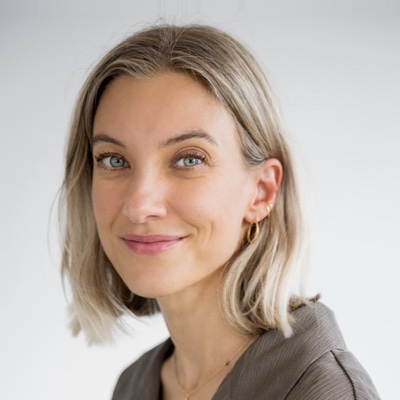
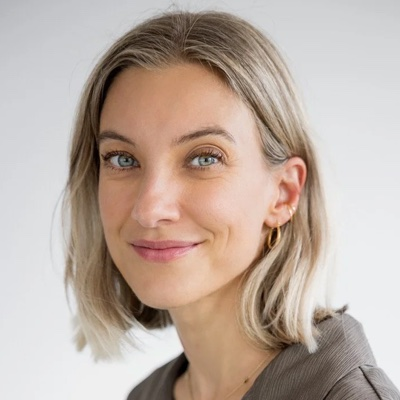
Add a profile page for everyone in the lab
Each person now has a page at /people/<name>/ with their bio on the left and
a 4:5 portrait on the right, with Website and LinkedIn links beneath it.
Bios live in _people/ as Markdown; name, role, photos, and links stay in
_data/people.yml, which gains `portrait` and `linkedin` fields. Homepage
cards open the profile instead of the person's outside page.

Bios are taken from each person's own site or Stanford profile. Kavya's and
Samantha's are left blank until they send current ones. Roberta's homepage
photo is replaced with a new, less tightly cropped one.

diff --git a/_layouts/person.html b/_layouts/person.html
@@ -1,0 +1,59 @@
+---
+layout: default
+---
+{%- comment -%}
+  A profile page, for each file in _people/. The bio is the file's body;
+  everything else comes from the matching entry in _data/people.yml, so a
+  person's name, role, and photo are never written down twice.
+
+  Source order is name, portrait, bio, which is the order a phone stacks them
+  in. On wider screens the grid moves the portrait into a column on the right.
+{%- endcomment -%}
+{%- assign person = site.data.people | where: "name", page.title | first %}
+{%- assign portrait = person.portrait | default: person.photo %}
+<div class="wrap page">
+  <p class="profile-back"><a href="{{ '/#people' | relative_url }}">← All people</a></p>
+
+  <article class="profile">
+    <header class="profile-head">
+      <h1 class="page-title">{{ person.name | default: page.title | escape }}</h1>
+      {%- if person.role %}
+      <p class="profile-role">{{ person.role | escape }}</p>
+      {%- endif %}
+    </header>
+
+    {%- if portrait or person.linkedin or person.url %}
+    <aside class="profile-aside">
+      {%- if portrait %}
+      <img class="profile-portrait" src="{{ '/assets/img/' | append: portrait | relative_url }}" alt="{{ person.name | escape }}" width="640" height="800" />
+      {%- endif %}
+      {%- if person.url or person.linkedin %}
+      <ul class="profile-links">
+        {%- if person.url %}
+        <li>
+          <a href="{{ person.url }}" target="_blank" rel="noopener">
+            <svg class="profile-link-logo" viewBox="0 0 24 24" aria-hidden="true" fill="none" stroke="currentColor" stroke-width="1.75"><circle cx="12" cy="12" r="10"/><path d="M2 12h20M12 2c2.6 2.8 4 6.2 4 10s-1.4 7.2-4 10c-2.6-2.8-4-6.2-4-10s1.4-7.2 4-10Z"/></svg>
+            Website
+            <svg viewBox="0 0 24 24" aria-hidden="true" fill="none" stroke="currentColor" stroke-width="2" stroke-linecap="round" stroke-linejoin="round"><path d="M18 13v6a2 2 0 0 1-2 2H5a2 2 0 0 1-2-2V8a2 2 0 0 1 2-2h6M15 3h6v6M10 14 21 3"/></svg>
+          </a>
+        </li>
+        {%- endif %}
+        {%- if person.linkedin %}
+        <li>
+          <a href="{{ person.linkedin }}" target="_blank" rel="noopener">
+            <svg class="profile-link-logo" viewBox="0 0 24 24" aria-hidden="true"><path fill="currentColor" d="M20.45 20.45h-3.56v-5.57c0-1.33-.02-3.04-1.85-3.04-1.85 0-2.14 1.45-2.14 2.94v5.67H9.34V9h3.42v1.56h.05c.48-.9 1.64-1.85 3.37-1.85 3.6 0 4.27 2.37 4.27 5.46v6.28ZM5.34 7.43a2.06 2.06 0 1 1 0-4.13 2.06 2.06 0 0 1 0 4.13ZM7.12 20.45H3.56V9h3.56v11.45ZM22.22 0H1.77C.79 0 0 .77 0 1.73v20.54C0 23.23.79 24 1.77 24h20.45c.98 0 1.78-.77 1.78-1.73V1.73C24 .77 23.2 0 22.22 0Z"/></svg>
+            LinkedIn
+            <svg viewBox="0 0 24 24" aria-hidden="true" fill="none" stroke="currentColor" stroke-width="2" stroke-linecap="round" stroke-linejoin="round"><path d="M18 13v6a2 2 0 0 1-2 2H5a2 2 0 0 1-2-2V8a2 2 0 0 1 2-2h6M15 3h6v6M10 14 21 3"/></svg>
+          </a>
+        </li>
+        {%- endif %}
+      </ul>
+      {%- endif %}
+    </aside>
+    {%- endif %}
+
+    <div class="profile-bio">
+      {{ content }}
+    </div>
+  </article>
+</div>

diff --git a/assets/css/style.css b/assets/css/style.css
@@ -1067,6 +1067,138 @@ span.event-title {
   border-bottom: 1px solid var(--rule);
 }
 
+/* ---------- Profile pages ---------- */
+
+/* The homepage shows each person as a circle; the profile opens that circle
+   into the full rectangular frame, so the portrait is square-cornered and
+   larger than anything else on the page. The bio column keeps the site's
+   reading measure, and the portrait column is fixed so every profile has its
+   photo in the same place. */
+.profile-back {
+  font-size: 0.92rem;
+  margin: 0 0 1.75rem;
+}
+
+.profile {
+  display: grid;
+  grid-template-columns: minmax(0, 1fr) 18.5rem;
+  grid-template-rows: auto 1fr;
+  grid-template-areas:
+    "head aside"
+    "bio  aside";
+  gap: 0 4rem;
+  align-items: start;
+}
+
+.profile-head {
+  grid-area: head;
+}
+
+.profile-role {
+  color: var(--ink-soft);
+  font-size: 1.05rem;
+  margin: 0.4rem 0 0;
+}
+
+/* The same short cardinal rule that sits under the homepage's section
+   headings, left-aligned here because the page is. */
+.profile-head::after {
+  content: "";
+  display: block;
+  width: 44px;
+  height: 2px;
+  background: var(--cardinal);
+  margin: 1.5rem 0 1.75rem;
+}
+
+.profile-bio {
+  grid-area: bio;
+  max-width: 62ch;
+  font-size: 1.06rem;
+  line-height: 1.7;
+}
+
+.profile-bio p {
+  margin: 0 0 1.15rem;
+}
+
+.profile-bio p:last-child {
+  margin-bottom: 0;
+}
+
+.profile-aside {
+  grid-area: aside;
+}
+
+.profile-portrait {
+  display: block;
+  width: 100%;
+  height: auto;
+  aspect-ratio: 4 / 5;
+  object-fit: cover;
+  background: var(--cardinal-tint);
+}
+
+/* Ruled rows, like the site's other lists, rather than buttons. */
+.profile-links {
+  list-style: none;
+  margin: 1.25rem 0 0;
+  padding: 0;
+  font-size: 0.95rem;
+}
+
+.profile-links li {
+  border-bottom: 1px solid var(--rule);
+}
+
+.profile-links li:first-child {
+  border-top: 1px solid var(--rule);
+}
+
+.profile-links a {
+  display: flex;
+  align-items: center;
+  gap: 0.4rem;
+  padding: 0.6rem 0;
+}
+
+/* The external-link mark, right after the label: both links leave the site. */
+.profile-links svg {
+  width: 0.85rem;
+  height: 0.85rem;
+  flex: none;
+}
+
+/* What each link is, before its label: a little larger and further from the
+   text than the external-link mark after it. */
+.profile-links .profile-link-logo {
+  width: 1.05rem;
+  height: 1.05rem;
+  margin-right: 0.25rem;
+}
+
+/* Stacked, the portrait follows the name so the page still opens on who this
+   is, and it shrinks so the bio starts within the first screen. */
+@media (max-width: 760px) {
+  .profile {
+    grid-template-columns: minmax(0, 1fr);
+    grid-template-rows: auto;
+    grid-template-areas:
+      "head"
+      "aside"
+      "bio";
+  }
+
+  .profile-head::after {
+    margin-bottom: 1.5rem;
+  }
+
+  .profile-aside {
+    max-width: 15rem;
+    margin-bottom: 2rem;
+  }
+}
+
 .not-found-links {
   margin: 0;
   padding: 0;

diff --git a/index.html b/index.html
@@ -66,11 +66,14 @@ title: AI Governance Lab
     <ul class="people-grid people-grid-{{ group.id }}">
       {%- for person in members %}
       {%- comment -%}
-        With a `url` the whole card is one link, so the photo and the name are
-        a single target; without one it degrades to the same card as plain text.
+        With a profile page in _people/ or a `url` the whole card is one link,
+        so the photo and the name are a single target; without either it
+        degrades to the same card as plain text. Profiles open in this tab,
+        outside pages in a new one.
       {%- endcomment -%}
+      {%- assign profile = site.people | where: "title", person.name | first %}
       <li class="person">
-        {%- if person.url %}<a class="person-card" href="{{ person.url }}" target="_blank" rel="noopener">{% else %}<div class="person-card">{% endif %}
+        {%- if profile %}<a class="person-card" href="{{ profile.url | relative_url }}">{% elsif person.url %}<a class="person-card" href="{{ person.url }}" target="_blank" rel="noopener">{% else %}<div class="person-card">{% endif %}
           <span class="avatar">
             {%- if person.photo %}
             <img src="{{ '/assets/img/' | append: person.photo | relative_url }}" alt="" loading="lazy" width="120" height="120" />
@@ -78,7 +81,7 @@ title: AI Governance Lab
           </span>
           <span class="person-name">{{ person.name | escape }}</span>
           <span class="person-role">{{ person.role | escape }}</span>
-        {%- if person.url %}</a>{% else %}</div>{% endif %}
+        {%- if profile or person.url %}</a>{% else %}</div>{% endif %}
       </li>
       {%- endfor %}
     </ul>

diff --git a/_people/nathaniel-persily.md b/_people/nathaniel-persily.md
@@ -1,0 +1,22 @@
+---
+# Must match `name` in _data/people.yml exactly, "Dr." included.
+title: Nathaniel Persily
+---
+Nate Persily is the James B. McClatchy Professor of Law at Stanford Law School
+and Co-Director of the Stanford Law AI Initiative, with appointments in
+Political Science, Communication, and the Freeman Spogli Institute for
+International Studies. His work focuses on the law of democracy and the
+governance of technology. He is a coauthor of the casebook *The Law of
+Democracy*, has served as a special master or court-appointed expert drawing
+districting plans for seven states, and was Senior Research Director for the
+Presidential Commission on Election Administration.
+
+His current work, recognized with Guggenheim and Andrew Carnegie fellowships,
+examines the governance of technology and its impact on democracy. He coedited
+*Social Media and Democracy* and *Artificial Intelligence, Politics, and
+Political Science* with Joshua Tucker, and *The Digitalist Papers* with Erik
+Brynjolfsson, Alex Pentland, and Condoleezza Rice. He cochairs the American
+Political Science Association's Presidential Task Force on Artificial
+Intelligence and is a member of the American Academy of Arts and Sciences. He
+holds a B.A. and M.A. from Yale, a J.D. from Stanford, and a Ph.D. in political
+science from UC Berkeley.

diff --git a/_people/roberta-fischli.md b/_people/roberta-fischli.md
@@ -1,0 +1,18 @@
+---
+# Must match `name` in _data/people.yml exactly, "Dr." included.
+title: Dr. Roberta Fischli
+---
+Roberta Fischli is a political scientist, a Postdoctoral Researcher in the
+Department of Political Science, and a member of the AI Governance Lab.
+Roberta's research asks how we can protect human liberty in an age of advanced
+machine intelligence, and what future-proof institutions require.
+
+Previously, Roberta was an AGI Fellow at the Johns Hopkins School of Government
+and Policy and a Visiting Faculty Researcher at Google, leading a project on AI
+agents and value alignment, with earlier research appointments at UC Berkeley,
+Georgetown Law, and the University of St. Gallen. Roberta holds a PhD (summa
+cum laude) in Political Economy and International Affairs from St. Gallen,
+with a dissertation on the changing meaning of personal freedom in the
+algorithmic age. The work has appeared in *Perspectives on Politics*, *Minds
+and Machines*, the *European Journal of Political Theory*, and *Philosophy
+Now*. Before becoming a researcher, Roberta worked as a freelance journalist.

diff --git a/_people/yasi-khan.md b/_people/yasi-khan.md
@@ -1,0 +1,16 @@
+---
+# Must match `name` in _data/people.yml exactly, "Dr." included.
+title: Yasi Khan
+---
+Yasi Khan is an IRiSS Predoctoral Scholar in the AI Governance Lab and an
+affiliate of Stanford HAI, studying how democratic societies can shape AI
+policy that upholds their political, social, and economic futures. Yasi's
+research focuses on accelerationism in Silicon Valley and its effect on the
+race for AGI, part of a broader project on the origins of techno-ideologies and
+their relationship to modern political movements.
+
+Yasi holds an MSc with Distinction in Social Science of the Internet from the
+University of Oxford, earned at Balliol College as a Clarendon Scholar, and a
+B.S. with Honors and Distinction in Symbolic Systems from Stanford, with a
+minor in Poetry. Before joining the lab, Yasi was a business analyst at
+McKinsey & Company, helping establish its AI Trust practice.

diff --git a/_people/dominic-zappia.md b/_people/dominic-zappia.md
@@ -1,0 +1,15 @@
+---
+# Must match `name` in _data/people.yml exactly, "Dr." included.
+title: Dominic Zappia
+---
+Dominic Zappia is a Research Associate with the Technology Ethics & Policy
+Rising Scholars Program at the McCoy Family Center for Ethics in Society,
+working with Professor Rob Reich. A Midwest native, Dominic graduated from the
+University of Wisconsin–Madison with a B.A. in Economics, Political Science,
+and Philosophy. His senior honors thesis combined epistemology and democratic
+theory with data analysis to explore how digital design can promote
+democratic values, and he served as Chair of UW–Madison's Student Government.
+
+Dominic is interested in how emerging technologies such as AI interact with
+democratic values, and how responsible governance can align the interests of
+industry, government, and the public.

diff --git a/_people/rob-reich.md b/_people/rob-reich.md
@@ -1,0 +1,14 @@
+---
+# Must match `name` in _data/people.yml exactly, "Dr." included.
+title: Rob Reich
+---
+Rob Reich is Co-Director of the AI Governance Lab and a professor of political
+science at Stanford, with courtesy appointments in Philosophy, Law, and
+Education. Rob teaches and writes about the governance of frontier science and
+technology, and has written previously about philanthropy in democratic
+societies and the purposes of public education.
+
+Rob is associate director of the Stanford Institute for Human-Centered AI and
+faculty director of the Ethics, Society, and Technology Initiatives at the
+McCoy Family Center for Ethics in Society. Rob was an early advisor to Giving
+Tuesday and served as its founding board chair.

diff --git a/_people/vicki-ballagh.md b/_people/vicki-ballagh.md
@@ -1,0 +1,13 @@
+---
+# Must match `name` in _data/people.yml exactly, "Dr." included.
+title: Vicki Ballagh
+---
+Vicki Ballagh advises leaders navigating high-stakes, high-ambiguity
+challenges. With a career at the intersection of AI, public safety, product
+strategy, policy, and communications, she has guided global companies and
+government agencies through defining moments, from building Airbnb's global
+crisis management infrastructure to helping launch the U.S. AI Safety
+Institute.
+
+Through her practice, Anchorlight Advisory, Vicki partners with executive teams
+on challenges that don't fit neatly into organizational charts or precedent.

diff --git a/_people/samantha-bennett.md b/_people/samantha-bennett.md
@@ -1,0 +1,5 @@
+---
+# Must match `name` in _data/people.yml exactly, "Dr." included.
+# Bio to come: her only link is LinkedIn, which can't be read automatically.
+title: Samantha Bennett
+---

diff --git a/_people/kavya-ravichandran.md b/_people/kavya-ravichandran.md
@@ -1,0 +1,5 @@
+---
+# Must match `name` in _data/people.yml exactly, "Dr." included.
+# Bio to come: kavyar314.github.io still describes the PhD at TTIC.
+title: Dr. Kavya Ravichandran
+---
